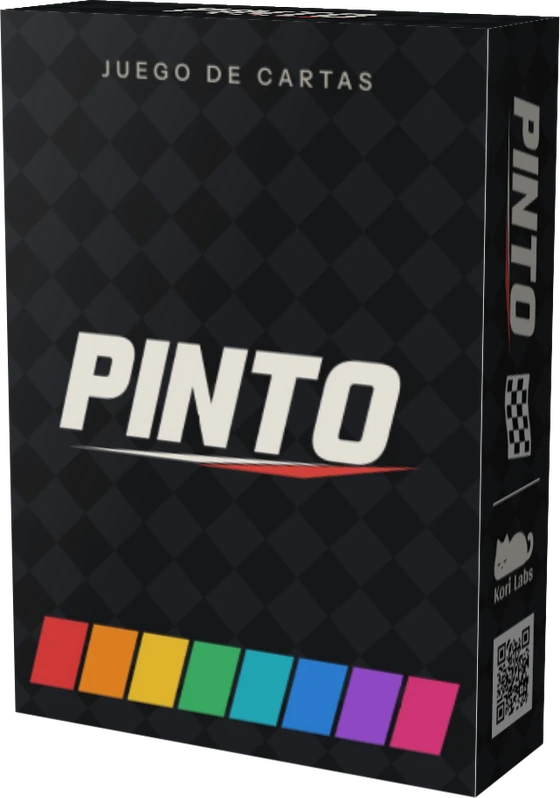
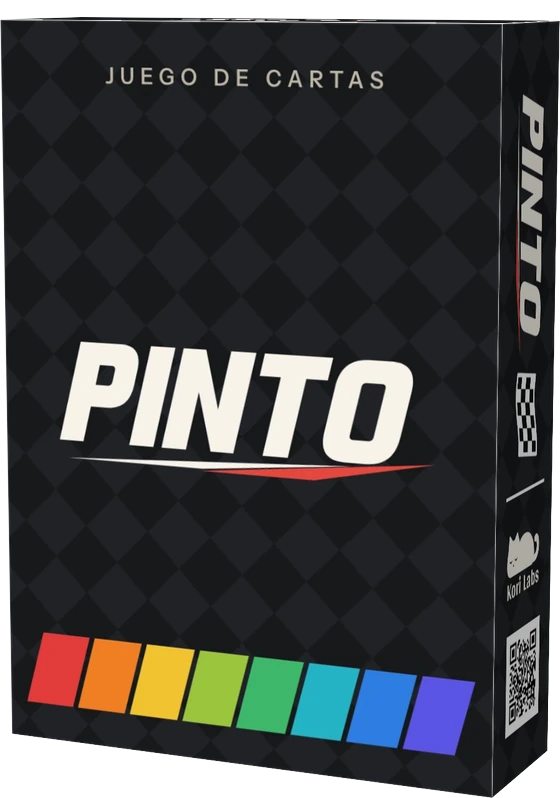
Home: update the PINTO box image to the redesigned box (#16)
Claude-Session: https://claude.ai/code/session_01NnqHpPTsf52NrHQii241Ji

diff --git a/index.html b/index.html
@@ -150,7 +150,7 @@
           <div class="h-game__art">
             <img class="h-game__card h-game__card--a" src="juegos/pinto/img/cartas/ritmo-8.webp?v=3" width="660" height="924" alt="" loading="lazy">
             <img class="h-game__card h-game__card--b" src="juegos/pinto/img/cartas/bandera-a-cuadros.webp?v=3" width="660" height="924" alt="" loading="lazy">
-            <img class="h-game__box" src="assets/pinto-caja.webp" width="560" height="798" alt="Caja del juego PINTO" loading="lazy">
+            <img class="h-game__box" src="assets/pinto-caja.webp?v=2" width="560" height="798" alt="Caja del juego PINTO" loading="lazy">
           </div>
           <div class="h-game__copy">
             <p class="h-game__status"><span class="h-soon">Próximamente</span> Juego de cartas</p>
